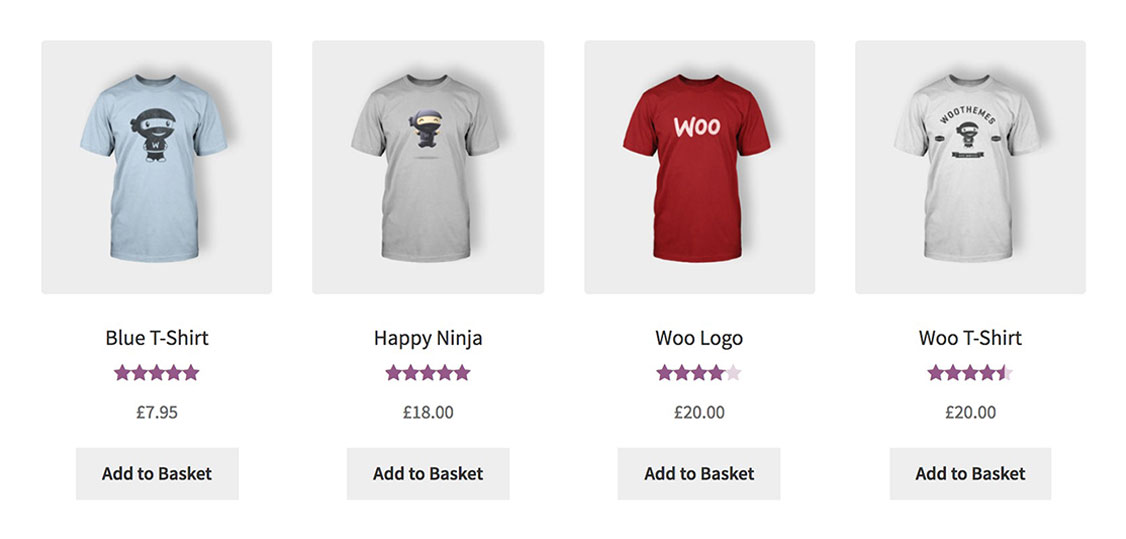
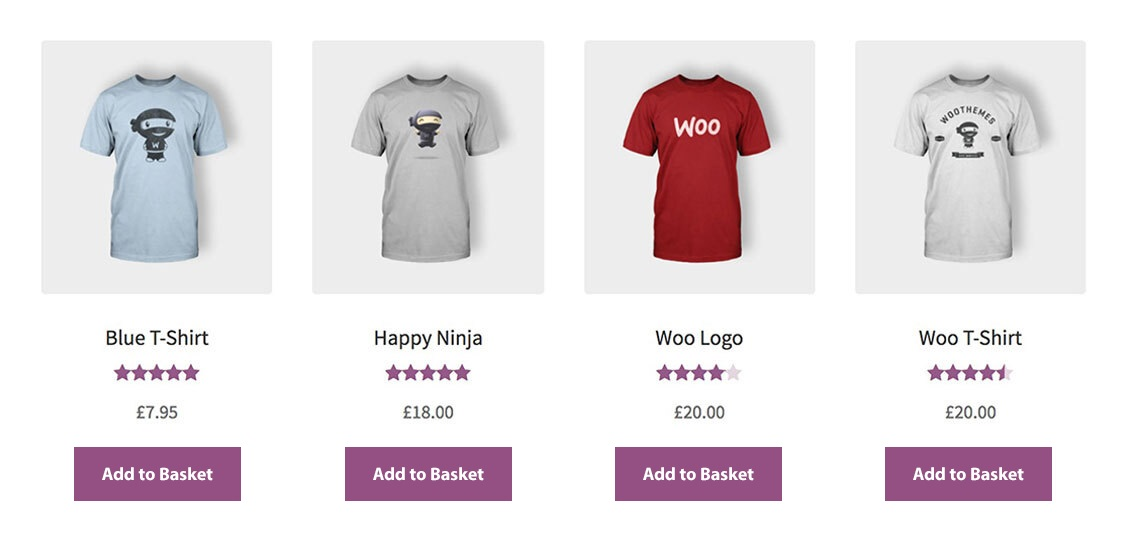
update the assets

diff --git a/src/Admin/Add_To_Cart_Customizer.php b/src/Admin/Add_To_Cart_Customizer.php
@@ -115,7 +115,7 @@ class Add_To_Cart_Customizer implements Registerable {
         );
 
         $wp_customize->add_control( new \WP_Customize_Color_Control( $wp_customize, Util::OPTION_ADD_TO_CART_BACKGROUND_COLOR, [
-            'label'    => __( 'Button Background', 'woo-custom-add-to-cart-button' ),
+            'label'    => __( 'Button background', 'woo-custom-add-to-cart-button' ),
             'section'  => self::ADD_TO_CART_SECTION,
             'settings' => Util::OPTION_ADD_TO_CART_BACKGROUND_COLOR
             ]
@@ -129,7 +129,7 @@ class Add_To_Cart_Customizer implements Registerable {
         );
 
         $wp_customize->add_control( new \WP_Customize_Color_Control( $wp_customize, Util::OPTION_ADD_TO_CART_COLOR, [
-            'label'    => __( 'Button Text Color', 'woo-custom-add-to-cart-button' ),
+            'label'    => __( 'Button text color', 'woo-custom-add-to-cart-button' ),
             'section'  => self::ADD_TO_CART_SECTION,
             'settings' => Util::OPTION_ADD_TO_CART_COLOR
             ]

diff --git a/woo-custom-add-to-cart-button.php b/woo-custom-add-to-cart-button.php
@@ -11,7 +11,7 @@
  * Plugin Name:     WooCommerce Custom Add To Cart Button
  * Plugin URI:      https://barn2.co.uk/wordpress-plugins/woo-custom-add-to-cart-button/
  * Description:     Customize the Add to Cart buttons in WooCommerce by changing the text or adding a cart icon.
- * Version:         1.2.0
+ * Version:         1.2.1
  * Author:          Barn2 Plugins
  * Author URI:      https://barn2.co.uk
  * Text Domain:     woo-custom-add-to-cart-button
@@ -31,7 +31,7 @@ if ( ! defined( 'ABSPATH' ) ) {
     exit;
 }
 
-const PLUGIN_VERSION = '1.2.0';
+const PLUGIN_VERSION = '1.2.1';
 const PLUGIN_FILE    = __FILE__;
 
 // Autoloader.
